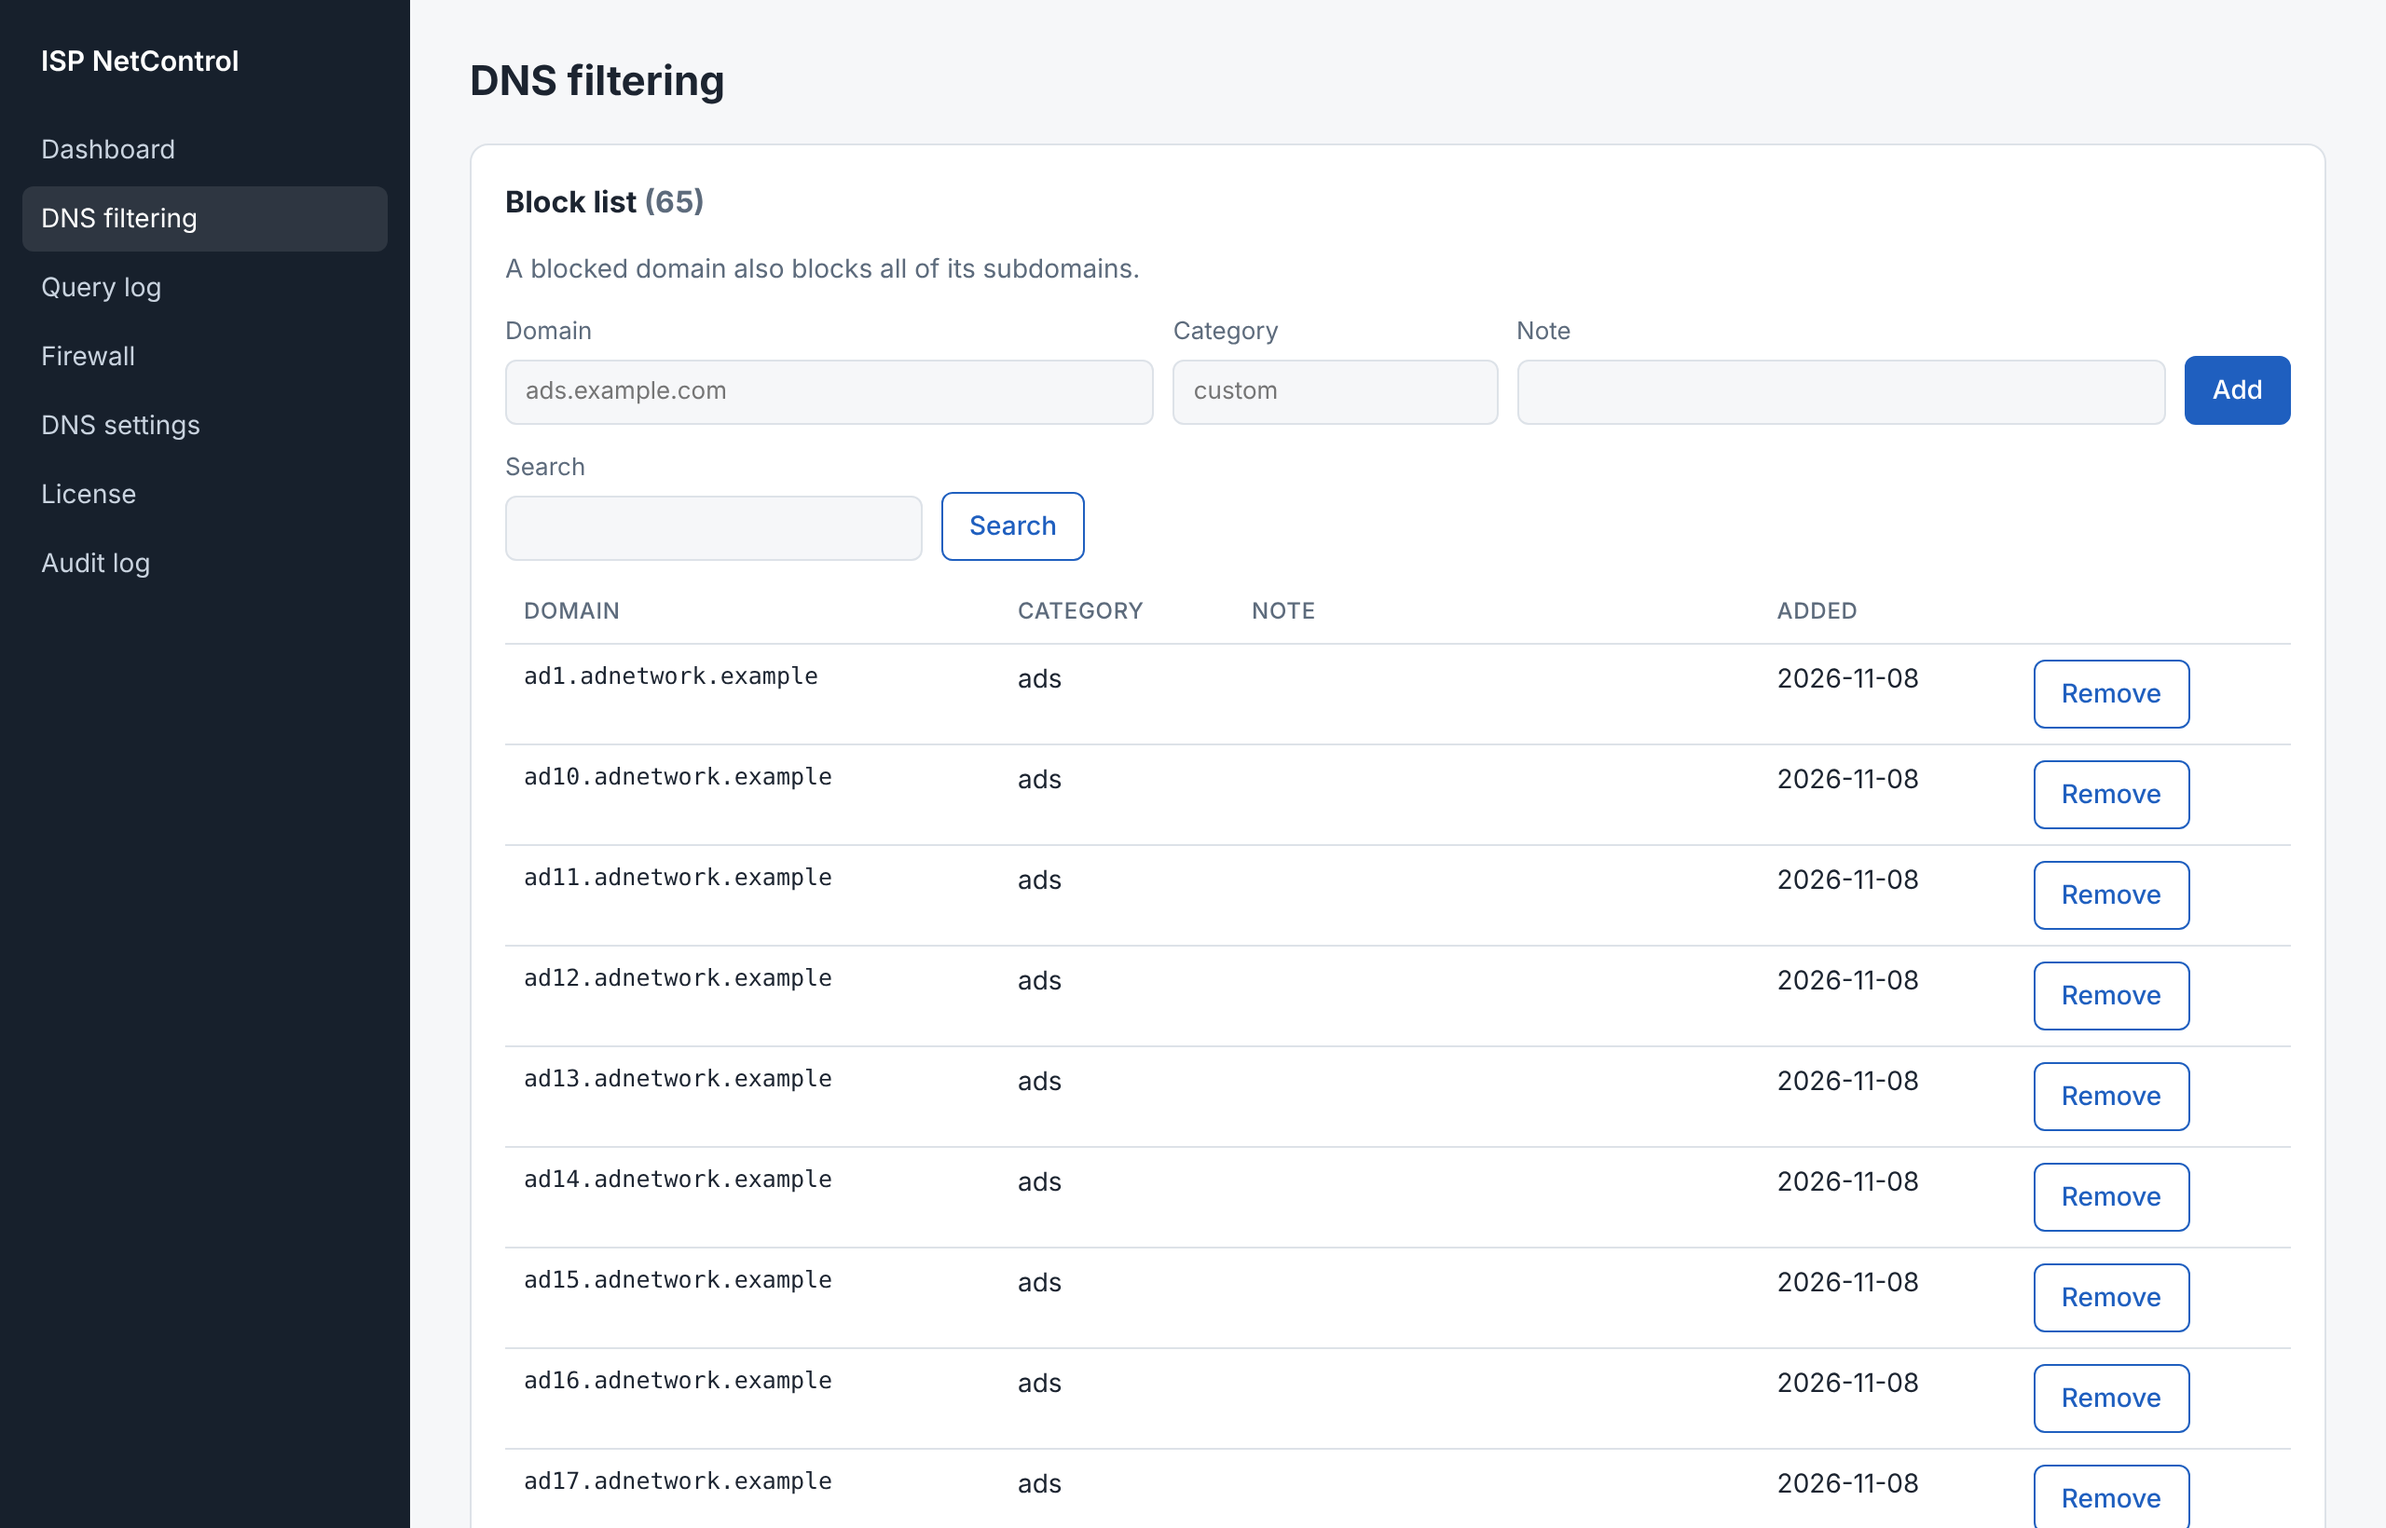
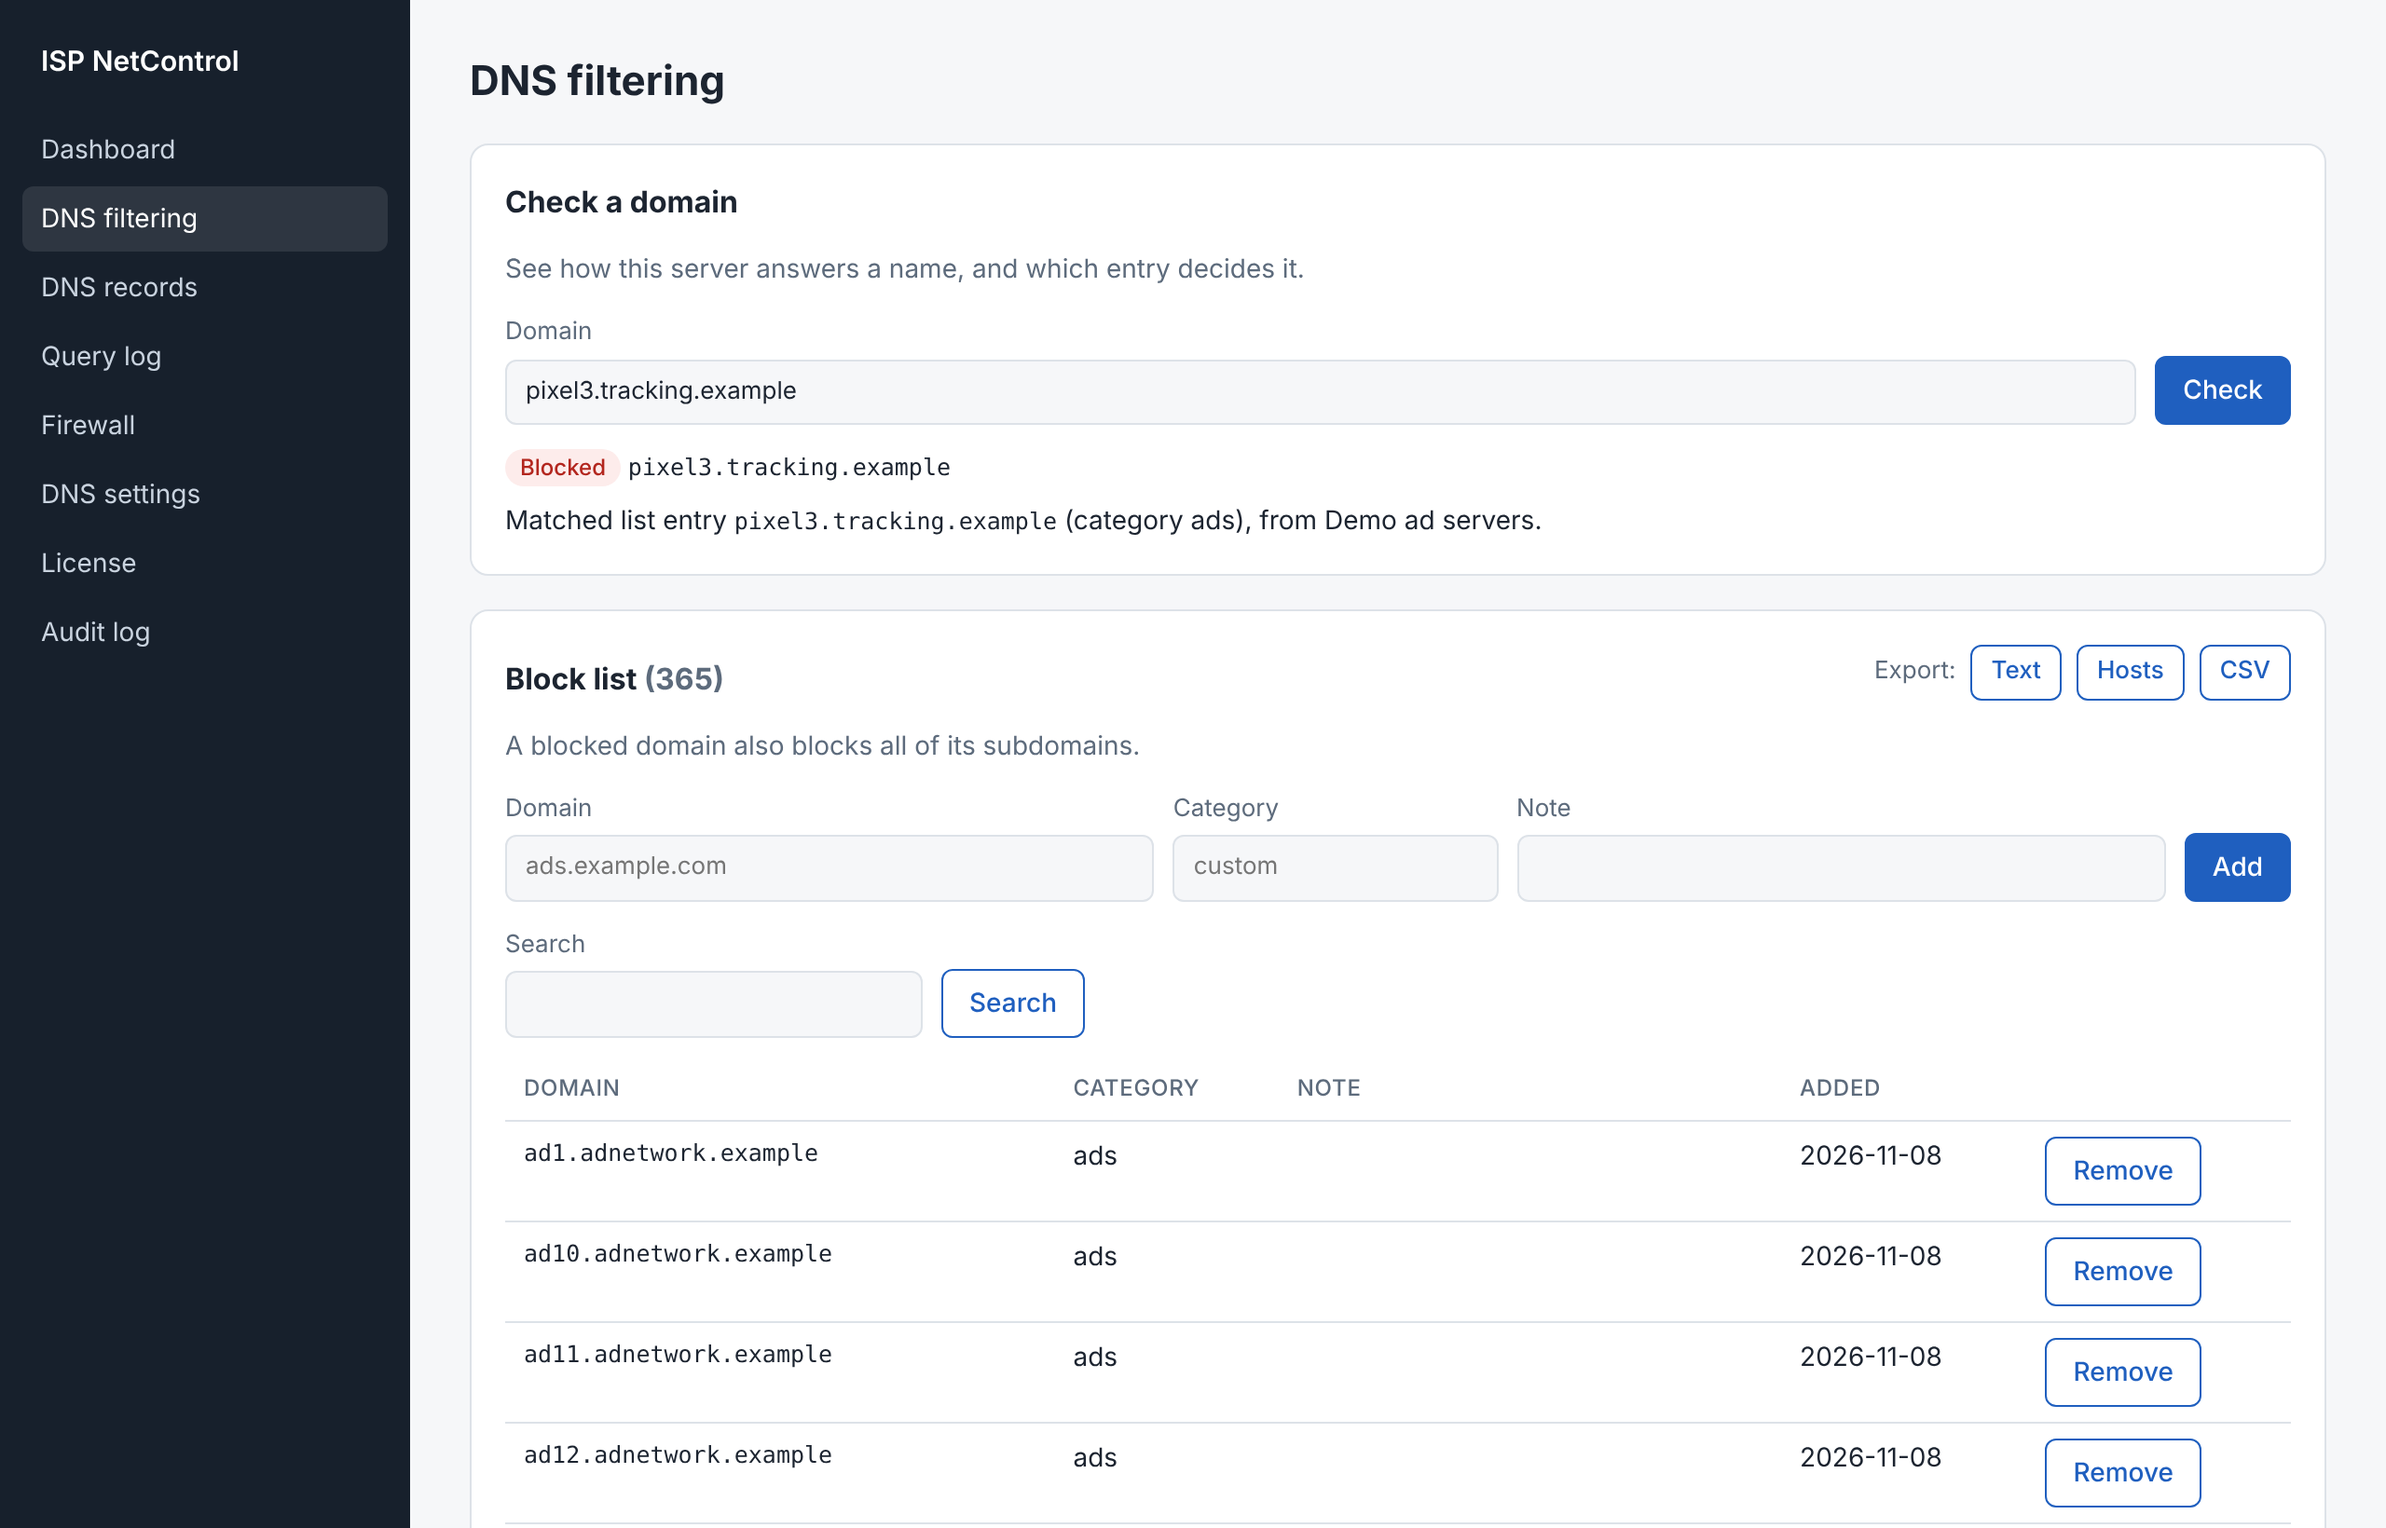
Release v1.1.0
Dashboard graph and top lists, local DNS records, block/allow list
export and import, block-list subscriptions, domain check and query-log
export. Updated documentation and screenshots; images tagged 1.1.0.

Claude-Session: https://claude.ai/code/session_01QVtrS9BhTjUtXw1Kf4Re4W

diff --git a/isp-netcontrol/web/components/QueryChart.tsx b/isp-netcontrol/web/components/QueryChart.tsx
@@ -56,8 +56,10 @@ export default function QueryChart({ points, bucketSeconds, loading }: { points:
   const yTicks = [0, 0.25, 0.5, 0.75, 1].map((f) => f * yMax);
   const xTickEvery = Math.max(1, Math.ceil(n / Math.max(2, Math.floor(innerW / 90))));
 
-  const path = (key: keyof Point) =>
-    points.map((p, i) => `${i === 0 ? "M" : "L"}${x(i).toFixed(1)},${y(p[key] as number).toFixed(1)}`).join("");
+  // The last bucket is still filling up: draw it separately and faded so a
+  // partial count does not read as a drop in traffic.
+  const seg = (key: keyof Point, from: number, to: number) =>
+    points.slice(from, to + 1).map((p, j) => `${j === 0 ? "M" : "L"}${x(from + j).toFixed(1)},${y(p[key] as number).toFixed(1)}`).join("");
 
   const onMove = (clientX: number) => {
     const r = wrap.current?.getBoundingClientRect();
@@ -126,7 +128,10 @@ export default function QueryChart({ points, bucketSeconds, loading }: { points:
               ) : null,
             )}
             {[...SERIES].reverse().map((s) => (
-              <path key={s.key} d={path(s.key)} fill="none" stroke={s.color} strokeWidth={2} strokeLinejoin="round" strokeLinecap="round" />
+              <g key={s.key}>
+                <path d={seg(s.key, 0, Math.max(0, n - 2))} fill="none" stroke={s.color} strokeWidth={2} strokeLinejoin="round" strokeLinecap="round" />
+                {n > 1 && <path d={seg(s.key, n - 2, n - 1)} fill="none" stroke={s.color} strokeWidth={2} strokeLinecap="round" opacity={0.35} />}
+              </g>
             ))}
             {hp && hover != null && (
               <g>
@@ -139,7 +144,7 @@ export default function QueryChart({ points, bucketSeconds, loading }: { points:
           </svg>
           {hp && (
             <div className="viz-tip" style={{ left: tipLeft, top: PAD.top }} role="status">
-              <div className="viz-tip-time">{new Date(hp.t).toISOString().slice(0, 16).replace("T", " ")} UTC</div>
+              <div className="viz-tip-time">{new Date(hp.t).toISOString().slice(0, 16).replace("T", " ")} UTC{hover === n - 1 && " (in progress)"}</div>
               {SERIES.map((s) => (
                 <div key={s.key} className="viz-tip-row">
                   <i style={{ background: s.color }} />

diff --git a/isp-netcontrol/web/app/page.tsx b/isp-netcontrol/web/app/page.tsx
@@ -83,7 +83,7 @@ export default function Dashboard() {
       )}
 
       {t && (
-        <div className="grid">
+        <div className="grid kpis">
           <div className="stat"><div className="label">Queries</div><div className="value">{t.total.toLocaleString()}</div><div className="sub">last {RANGES.find((r) => r[0] === range)?.[1]}</div></div>
           <div className="stat"><div className="label">Blocked</div><div className="value">{t.blocked.toLocaleString()}</div><div className="sub">{pct(t.blocked, t.total)}</div></div>
           <div className="stat"><div className="label">Refused</div><div className="value">{t.refused.toLocaleString()}</div><div className="sub">clients not allowed</div></div>

diff --git a/isp-netcontrol/web/app/globals.css b/isp-netcontrol/web/app/globals.css
@@ -161,3 +161,4 @@ pre.block { background: var(--bg); border: 1px solid var(--border); border-radiu
 .rank .fill { height: 6px; border-radius: 0 3px 3px 0; background: var(--bar); min-width: 2px; }
 a.button-link { display: inline-block; border: 1px solid var(--accent); color: var(--accent); border-radius: 6px; padding: 4px 10px; font-size: 13px; font-weight: 500; }
 a.button-link:hover { text-decoration: none; background: var(--bg); }
+.grid.kpis { grid-template-columns: repeat(auto-fit, minmax(140px, 1fr)); }

diff --git a/README.md b/README.md
@@ -3,9 +3,14 @@
 **ISP NetControl** is a filtering DNS resolver and firewall manager for
 Internet service providers:
 
-- DNS for subscribers with block lists, allow lists, list import, sinkhole
-  or NXDOMAIN answers, caching and a query log. Only configured client
-  networks are answered, so it is never an open resolver.
+- DNS for subscribers with block lists and allow lists (export and import
+  as text, hosts file or CSV), block-list subscriptions from a URL refreshed
+  daily, sinkhole or NXDOMAIN answers, caching and a query log. Only
+  configured client networks are answered, so it is never an open resolver.
+- Local DNS records (A, AAAA, CNAME, TXT, MX, PTR, wildcards) for internal
+  hosts, overrides and reverse lookups.
+- A dashboard with a queries-over-time graph (total, blocked, refused,
+  failed) for 1 hour to 30 days, and the top blocked domains and clients.
 - Firewall management through its own nftables table (`inet isp_netcontrol`);
   the server's existing firewall rules are never changed.
 - A web console with mandatory two-factor authentication, CSRF protection,
@@ -20,22 +25,41 @@ Ubuntu 24.04.
 
 ## Screenshots
 
-The console of a running installation, with demo data (example domains and
-documentation IP ranges).
+The console of a running installation, with demo data (example domains,
+documentation IP ranges, and a synthetic traffic history for the graph).
 
 ### Dashboard
-License status, live DNS statistics and the state of DNS filtering and the firewall.
+Queries over time for the chosen period (1 hour to 30 days) with a hover
+readout for every series and a table view, summary figures, the top blocked
+domains and top clients, and the state of licensing, DNS and the firewall.
 
 ![Dashboard](docs/screenshots/03-dashboard.png)
 
 ### DNS filtering
-Block and allow lists. A blocked domain also blocks its subdomains; lists
-can be imported in plain or hosts-file format.
+"Check a domain" shows how a name is answered and which entry decides it.
+Block and allow lists can be exported (text, hosts file, CSV) and a blocked
+domain also blocks its subdomains.
 
 ![DNS filtering](docs/screenshots/04-dns-filtering.png)
 
+### Import and subscriptions
+Import into either list (merge, or replace the hand-made entries) from plain
+lists, hosts files, Adblock-style rules or CSV. Subscribe to public block
+lists by URL; they refresh every 24 hours.
+
+![Import a list](docs/screenshots/12-import.png)
+
+![Block list subscriptions](docs/screenshots/11-subscriptions.png)
+
+### DNS records
+Local A, AAAA, CNAME, TXT, MX and PTR records, answered before filtering.
+`*.name` matches every name below it; PTR records accept an IP address.
+
+![DNS records](docs/screenshots/10-dns-records.png)
+
 ### Query log
-Every query with its client, type and result (forwarded, cached, blocked, refused, failed).
+Every query with its client, type and result (forwarded, cached, local,
+blocked, refused, failed), with CSV export.
 
 ![Query log](docs/screenshots/05-query-log.png)
 
@@ -81,6 +105,12 @@ Requirements: Go 1.26 and Node.js 22.
 
 ```bash
 go test ./...
+```
+
+Integration tests run the application against PostgreSQL when a database is given:
+
+```bash
+NC_TEST_DATABASE_URL=postgres://postgres:secret@127.0.0.1:5432/postgres go test ./isp-netcontrol/internal/nc/
 ```
 
 Console in development mode (run the API with `NC_COOKIE_SECURE=false` for plain HTTP):

diff --git a/docs/OPERATIONS.md b/docs/OPERATIONS.md
@@ -38,6 +38,33 @@ reinstalling the operating system, which changes the machine ID), the vendor
 releases it from the old hardware and you activate it on the new server.
 See [LICENSING.md](LICENSING.md).
 
+## Block lists: export, import and subscriptions
+
+- **Export** (DNS filtering → Export): text (one domain per line), hosts
+  file, or CSV with category, note and source. The CSV re-imports with its
+  categories, so it doubles as a backup of the lists.
+- **Import**: into the block or allow list. *Merge* adds new entries;
+  *Replace* first removes the hand-made entries of that list (subscription
+  entries stay). Plain lists, hosts files, Adblock-style `||domain^` rules
+  and CSV are understood; anything else is skipped and counted.
+- **Subscriptions** download a list from a URL every 24 hours (or on
+  **Refresh**). The server needs outbound HTTPS to the list's host. A failed
+  or empty download keeps the previous entries, and an entry you add by hand
+  is never overwritten or removed by a subscription.
+
+## DNS records
+
+**DNS records** holds local A, AAAA, CNAME, TXT, MX and PTR records. They
+are answered before filtering, also when the license has expired, and take
+effect immediately. A name may hold a CNAME or other records, not both.
+Use **DNS filtering → Check a domain** to see how a name is answered.
+
+## Statistics
+
+Query counters are stored per minute in the database and kept for 30 days,
+so the dashboard graph survives restarts. The top lists come from the query
+log (7 days by default, `NC_QUERY_LOG_DAYS`) and need the query-log feature.
+
 ## Logs and health
 
 ```bash

diff --git a/CHANGELOG.md b/CHANGELOG.md
@@ -1,5 +1,33 @@
 # Changelog
 
+## v1.1.0 (2026-11-08)
+
+### New
+- **Dashboard graph**: queries over time (total, blocked, refused, failed)
+  for 1 hour, 24 hours, 7 days or 30 days, with a hover readout, a table
+  view and summary figures. Counters are stored per minute for 30 days.
+- **Top lists** on the dashboard: most blocked domains and busiest clients.
+- **DNS records**: local A, AAAA, CNAME, TXT, MX and PTR records, with
+  wildcards (`*.name`) and PTR from an IP address. Answered before
+  filtering, available in every license state.
+- **Block and allow list export** as text, hosts file or CSV.
+- **Import into either list**, merge or replace; also understands CSV and
+  Adblock-style `||domain^` rules.
+- **Block-list subscriptions**: download public lists by URL, refreshed every
+  24 hours; failed or empty downloads keep the old list, hand-made entries
+  are never overwritten.
+- **Check a domain**: shows whether a name is blocked, allowed, answered
+  locally or forwarded, and which entry decides it.
+- **Query log export** to CSV.
+
+### Changed
+- New query result "local" in the query log and statistics.
+- Integration tests for the API against PostgreSQL.
+
+### Upgrading
+Run the installer of the new release with the same options. The database
+is migrated automatically; existing lists, rules, licenses and settings are kept.
+
 ## v1.0.0 (2026-11-08)
 
 First release of **ISP NetControl**.

diff --git a/docs/ARCHITECTURE.md b/docs/ARCHITECTURE.md
@@ -44,6 +44,17 @@
 - **Firewall**: one table, replaced atomically per change; never touches
   other tables; removed when the feature is not licensed or on uninstall.
 
+## Chart colours
+
+The dashboard graph uses four categorical series colours in a fixed order:
+total, blocked, refused, failed. The order was checked with a colour-vision
+validator against the console's panel colours. Light mode (`#2a78d6`,
+`#eb6834`, `#1baf7a`, `#eda100` on white): worst adjacent colour-blind ΔE 9.1,
+normal-vision ΔE 22.9. Dark mode (`#3987e5`, `#d95926`, `#199e70`, `#c98500`
+on `#19212b`): ΔE 8.4 and 19.8. In light mode two colours are below 3:1
+contrast, so the chart always has a legend, a tooltip with every value and a
+table view, and never relies on colour alone.
+
 ## Stack
 
 Go 1.26 with Fiber v2, pgx v5, miekg/dns and pquerna/otp; Next.js 15 / React 19

diff --git a/docs/INSTALL.md b/docs/INSTALL.md
@@ -37,11 +37,11 @@ key automatically through the signed endorsement chain (see
 ## 2. Install
 
 ```bash
-unzip isp-netcontrol-1.0.0.zip -d isp-netcontrol-1.0.0
+unzip isp-netcontrol-1.1.0.zip -d isp-netcontrol-1.1.0
 ```
 
 ```bash
-cd isp-netcontrol-1.0.0
+cd isp-netcontrol-1.1.0
 ```
 
 ```bash
